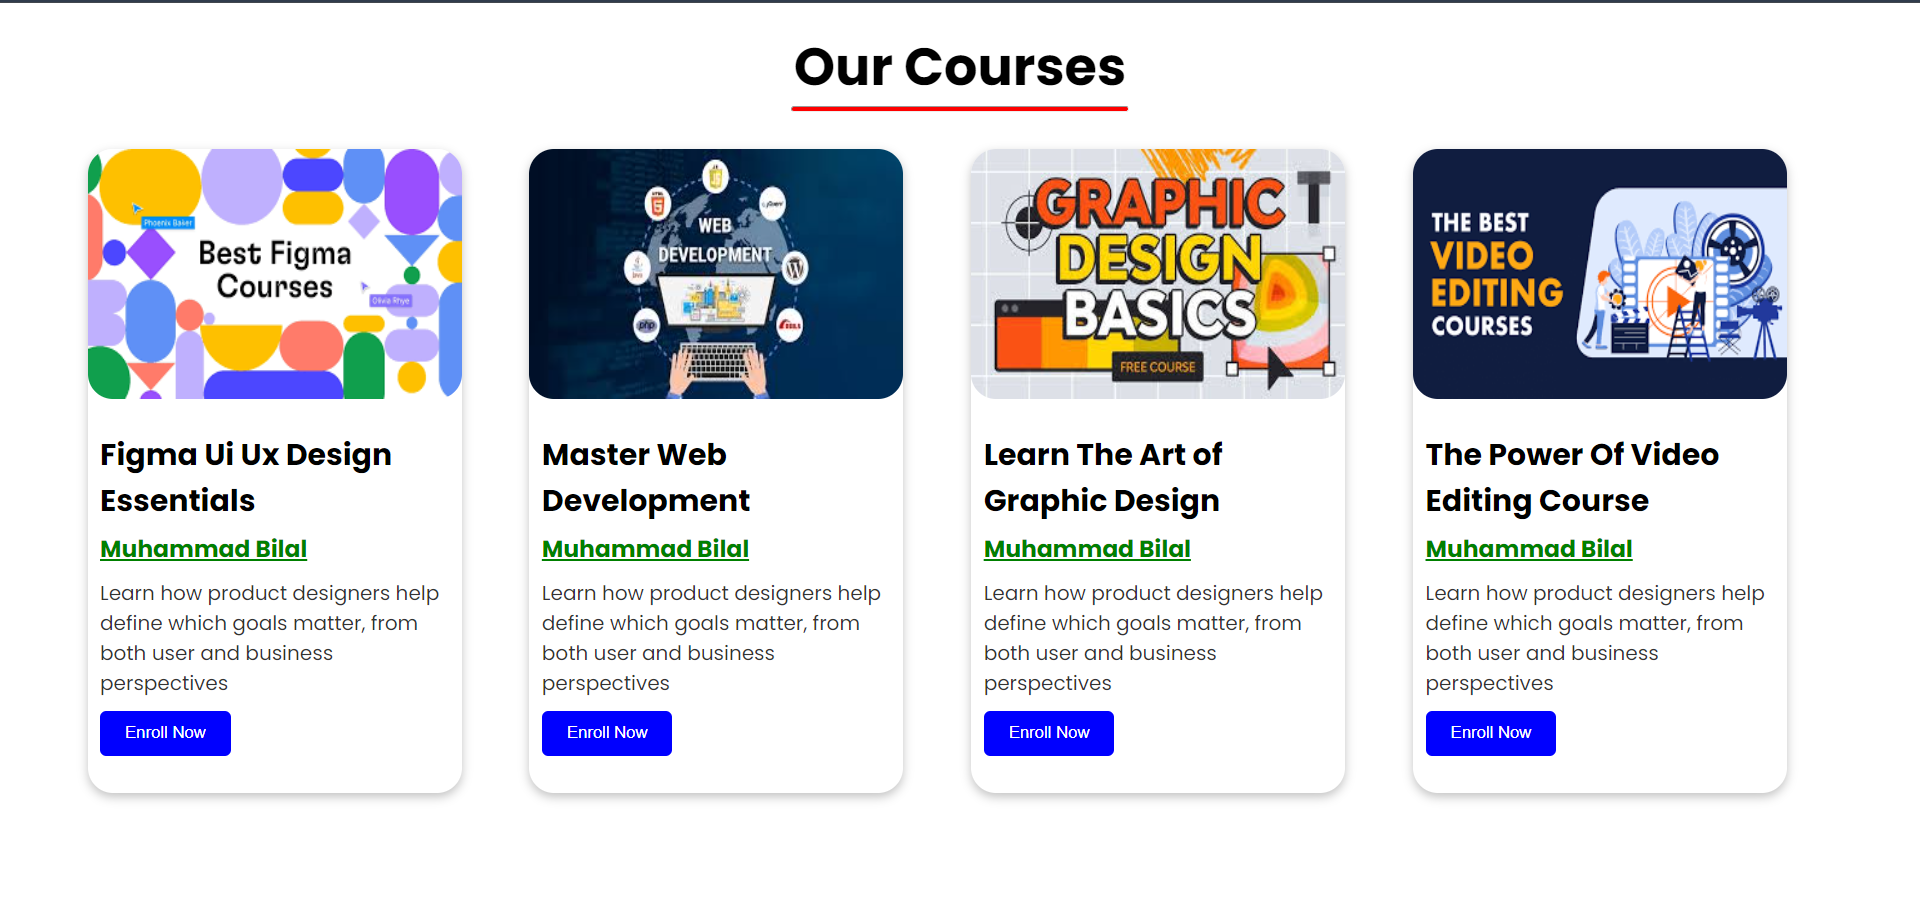
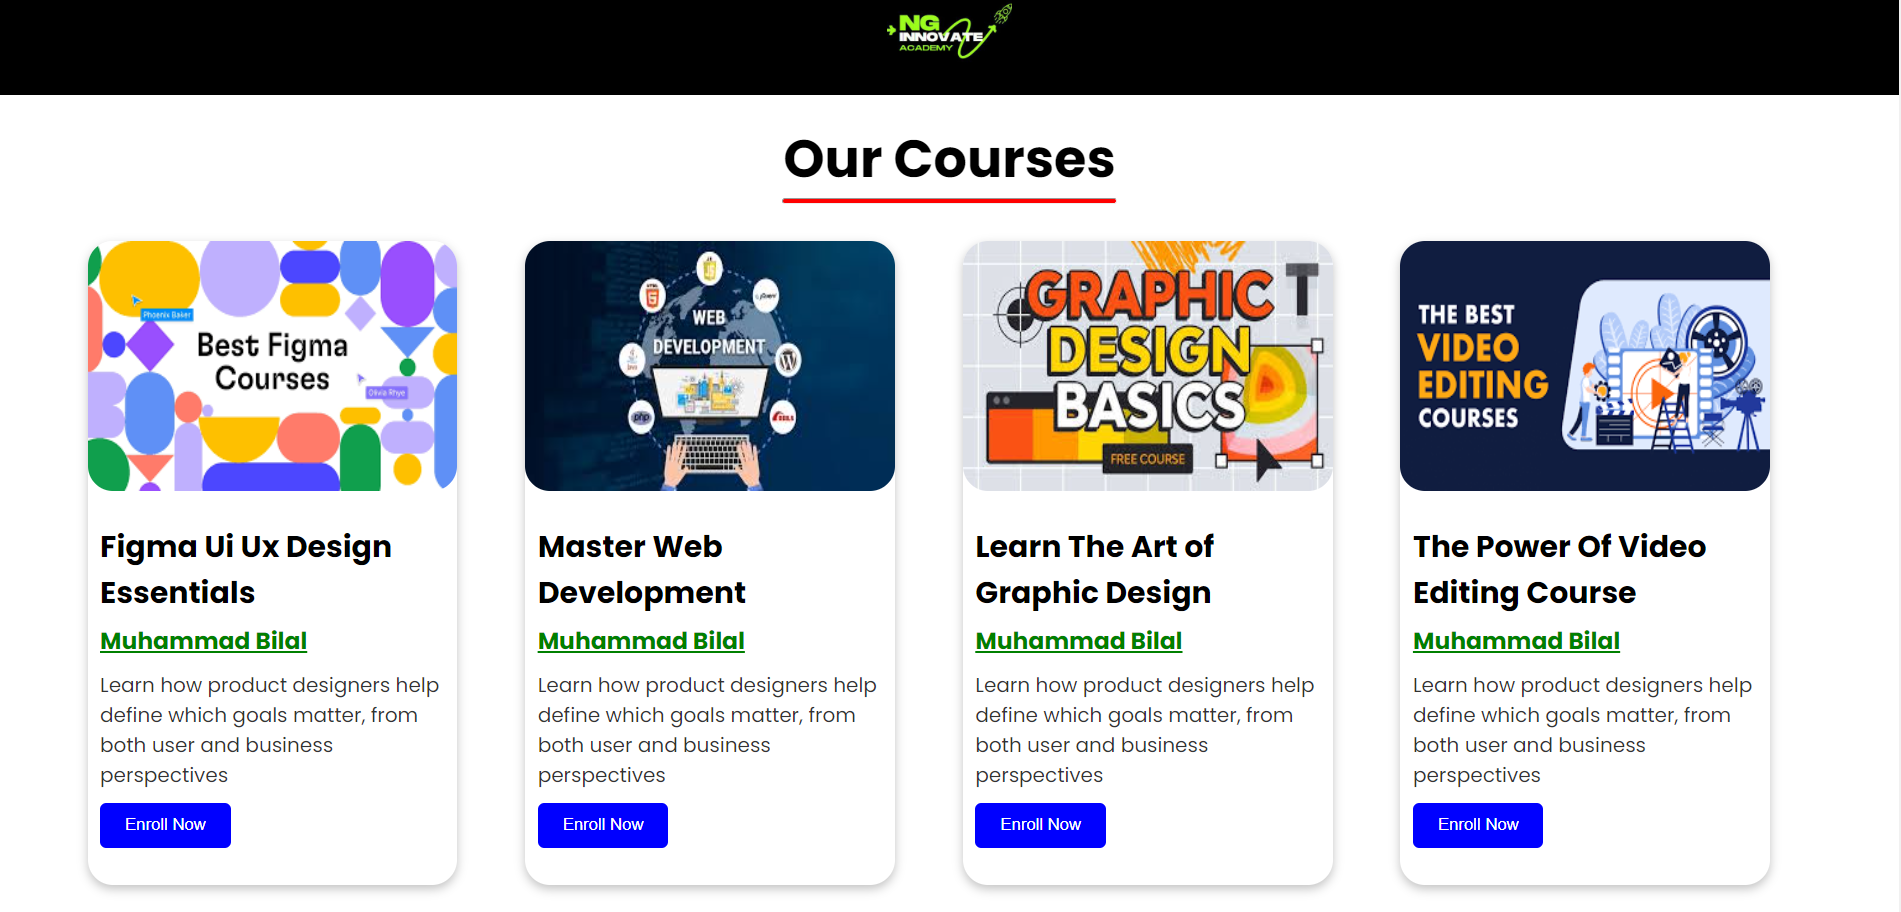
css card improved

diff --git a/class-16/index.html b/class-16/index.html
@@ -18,6 +18,13 @@
 </head>
 
 <body>
+
+    <!-- NAVBAR -->
+    <nav class="navbar">
+        <img class="logo" src="./images/logo.jpg" alt="logo">
+    </nav>
+
+
     <!-- Our Courses -->
     <section class="courses">
         <h1 class="main-heading">Our Courses</h1>

diff --git a/class-16/style.css b/class-16/style.css
@@ -9,6 +9,17 @@ body {
     font-family: 'poppins';
 }
 
+.navbar {
+    background-color: #000;
+
+}
+
+.logo {
+    display: block;
+    margin: 0px auto;
+    width: 100px;
+}
+
 .main-heading {
     margin-top: 20px;
     text-align: center;

diff --git a/class-16/README.md b/class-16/README.md
@@ -1,3 +1,3 @@
 # CSS Card Assignment
 
-![alt text](./images/image.png)
+![NG Innovate Assignment](./images/image.png)
